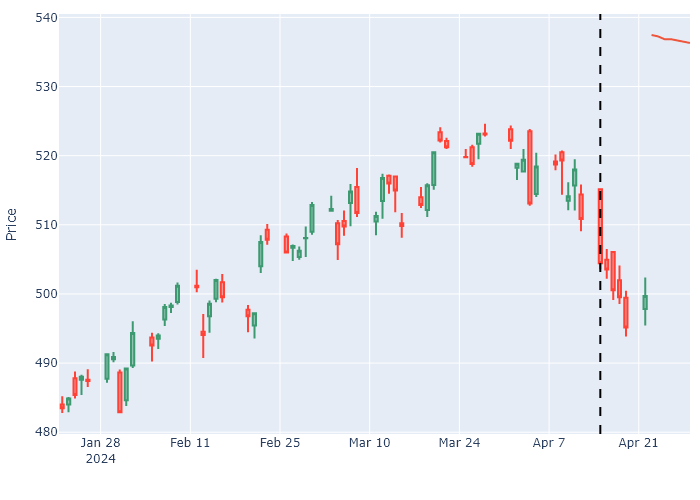
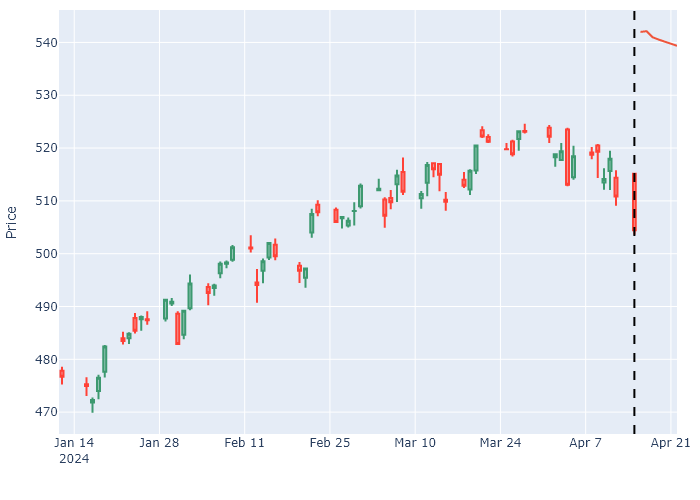
Updated main.py for daily run

diff --git a/main.py b/main.py
@@ -73,11 +73,13 @@ def read_data(name_symbol, test_date):
     start_date = (test_date_dt - timedelta(days=360)).strftime("%Y-%m-%d")
 
     # Donwload the data
-    datas = yf.download(name_symbol, start=start_date, interval="1d")
-    datas.reset_index(inplace=True)
-
+    # datas = yf.download(name_symbol, start=start_date, interval="1d")
+    # datas.reset_index(inplace=True)
     # set the Date column to be in string format
-    datas['Date'] = datas['Date'].dt.strftime('%Y-%m-%d')
+    # datas['Date'] = datas['Date'].dt.strftime('%Y-%m-%d')
+
+    # temp - if no access to internet
+    datas = pd.read_csv(f'datas_test\\{name_symbol}.csv')
 
     # assert the data is latest
     # assert datas['Date'].iloc[-1] == test_date
@@ -86,7 +88,8 @@ def read_data(name_symbol, test_date):
     test_date_idx = datas[datas['Date'] == test_date].index[0]
 
     # keep the s_len rows (including the test_date) and pre_len more rows
-    datas = datas.iloc[test_date_idx - s_len + 1:test_date_idx + pre_len + 1]
+    # datas = datas.iloc[test_date_idx - s_len + 1:test_date_idx + pre_len + 1]
+    datas = datas.iloc[test_date_idx - s_len - pre_len + 1: test_date_idx + 1]
 
     # Process the data
     datas = datas[["Date", "Open", "High", "Low", "Close", "Volume"]]

diff --git a/config.py b/config.py
@@ -7,6 +7,6 @@ crypto_symbols = ["BTC-USD", "ETH-USD", "BNB-USD", "DOGE-USD", "ADA-USD", "XRP-U
 #                     "BTC-USD", "ETH-USD", "BNB-USD", "DOGE-USD", "ADA-USD", "XRP-USD", "TRX-USD", "MATIC-USD"]
 
 symbols_daily_run = ["AAPL", "MSFT", "GOOGL", "AMZN", "META", "TSLA", "NVDA", "AMD", "SPY", "QQQ"]
-symbols_daily_run = ["SPY"]
+# symbols_daily_run = ["SPY"]
 
 # symbols_daily_run = ["BTC-USD", "ETH-USD", "BNB-USD", "DOGE-USD", "ADA-USD", "XRP-USD", "TRX-USD", "MATIC-USD"]
